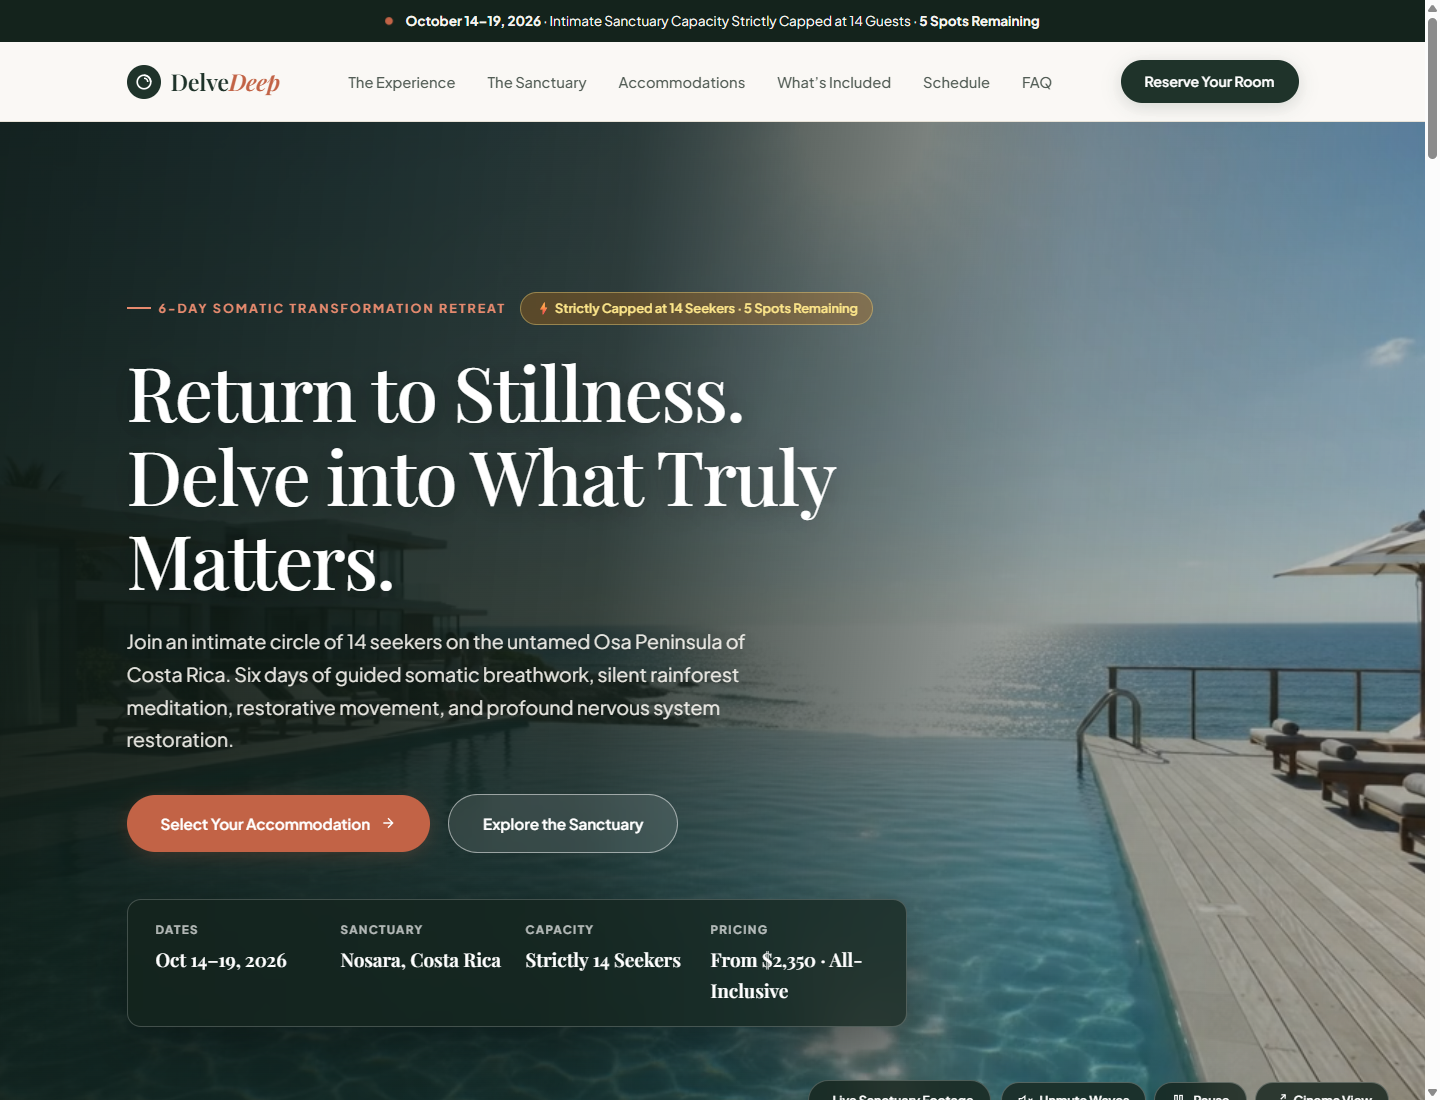
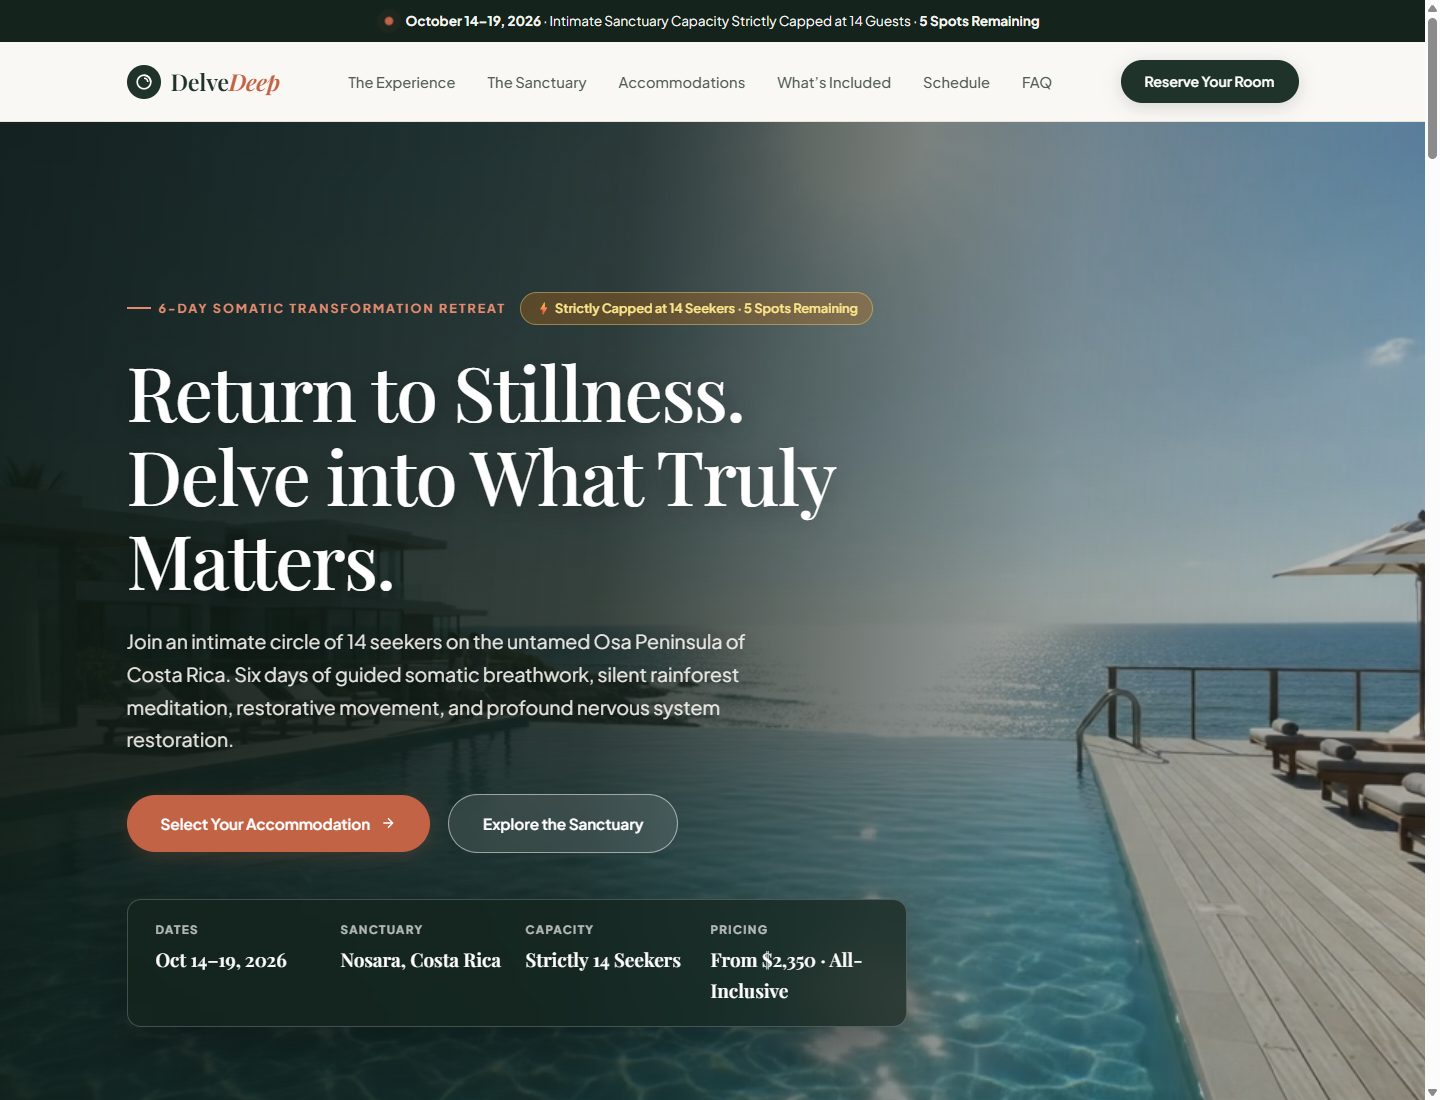
fix(delvedeep): remove floating video controls from hero section

Changed region(s): [[0.5625, 0.8964, 0.9688, 1.0]]

diff --git a/delvedeep.html b/delvedeep.html
@@ -1376,42 +1376,6 @@
         </div>
       </div>
 
-      <!-- Floating Glassmorphic Audio & Theater Controls in Hero Corner -->
-      <div class="hero-controls-floating">
-        <div class="live-status-pill">
-          <span class="video-live-dot"></span>
-          <span>Live Sanctuary Footage</span>
-        </div>
-
-        <div class="hero-ctrl-actions">
-          <button type="button" class="vid-glass-btn" id="heroSoundBtn" aria-label="Toggle Audio">
-            <svg id="heroSoundIcon" width="15" height="15" viewBox="0 0 24 24" fill="none" stroke="currentColor" stroke-width="2">
-              <polygon points="11 5 6 9 2 9 2 15 6 15 11 19 11 5"></polygon>
-              <line x1="23" y1="9" x2="17" y2="15"></line>
-              <line x1="17" y1="9" x2="23" y2="15"></line>
-            </svg>
-            <span id="heroSoundLabel">Unmute Waves</span>
-          </button>
-
-          <button type="button" class="vid-glass-btn" id="heroPlayBtn" aria-label="Pause or Play Video">
-            <svg id="heroPlayIcon" width="15" height="15" viewBox="0 0 24 24" fill="none" stroke="currentColor" stroke-width="2">
-              <rect x="6" y="4" width="4" height="16"></rect>
-              <rect x="14" y="4" width="4" height="16"></rect>
-            </svg>
-            <span id="heroPlayLabel">Pause</span>
-          </button>
-
-          <button type="button" class="vid-glass-btn" id="heroCinemaBtn" aria-label="Theater Mode" title="Full Theater View">
-            <svg width="15" height="15" viewBox="0 0 24 24" fill="none" stroke="currentColor" stroke-width="2">
-              <polyline points="15 3 21 3 21 9"></polyline>
-              <polyline points="9 21 3 21 3 15"></polyline>
-              <line x1="21" y1="3" x2="14" y2="10"></line>
-              <line x1="3" y1="21" x2="10" y2="14"></line>
-            </svg>
-            <span>Cinema View</span>
-          </button>
-        </div>
-      </div>
     </section>
 
     <!-- ================= THE THREE PILLARS EXPERIENCE ================= -->
